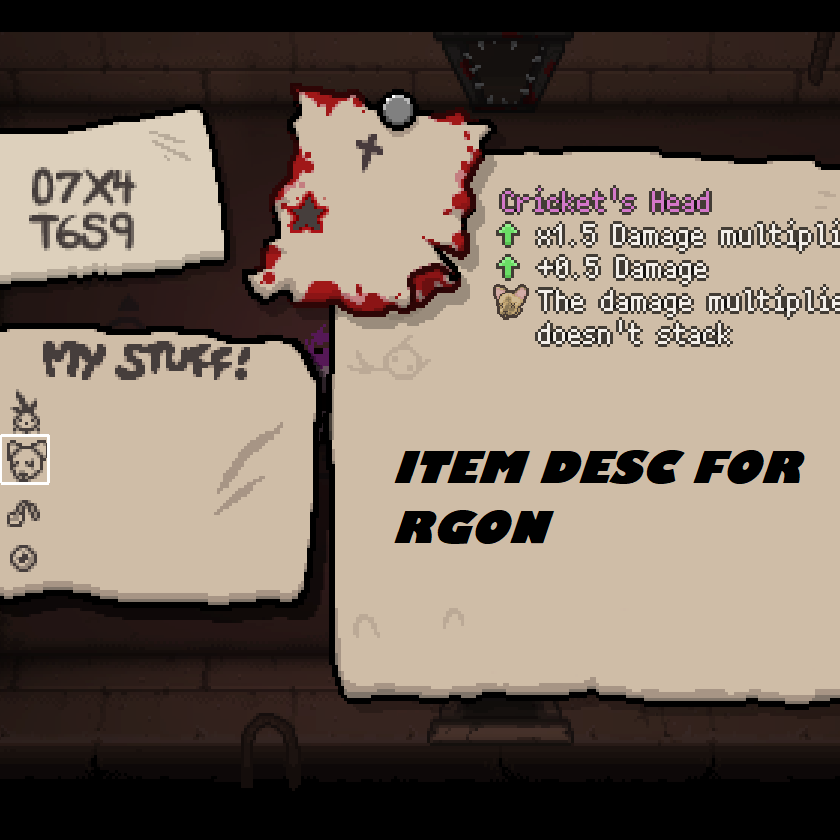
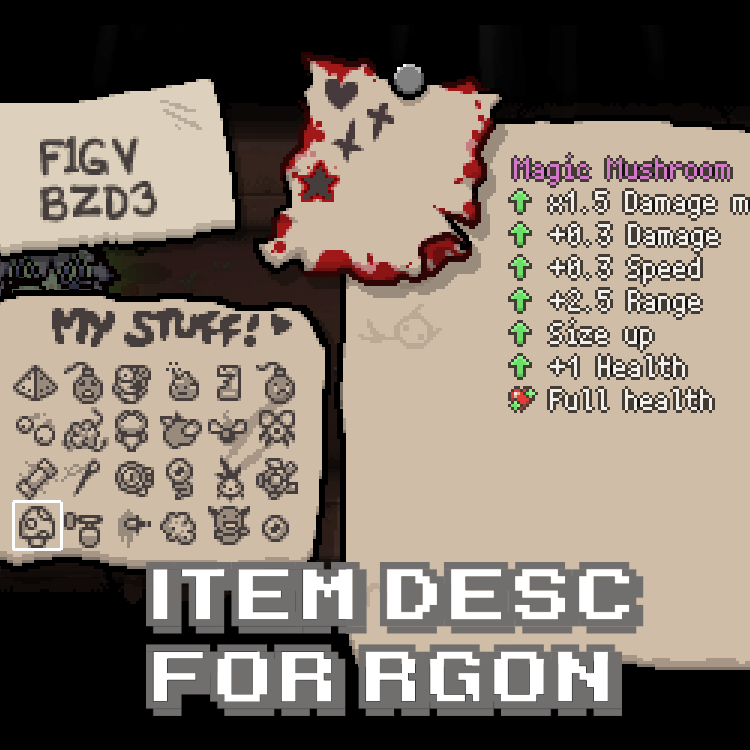
Updated mod's thumbnail and README.md

diff --git a/README.md b/README.md
@@ -1,5 +1,7 @@
 # Isaac Stuff Descriptions for REPENTOGON
 
+![Thumbnail](./cover.png)
+
 Adds item descriptions and item inspection controls to the **My Stuff** section of the pause menu in *The Binding of Isaac: Repentance+*.
 
 The mod is designed for the REPENTOGON-compatible game version and uses **External Item Descriptions (EID)** to provide item information.
